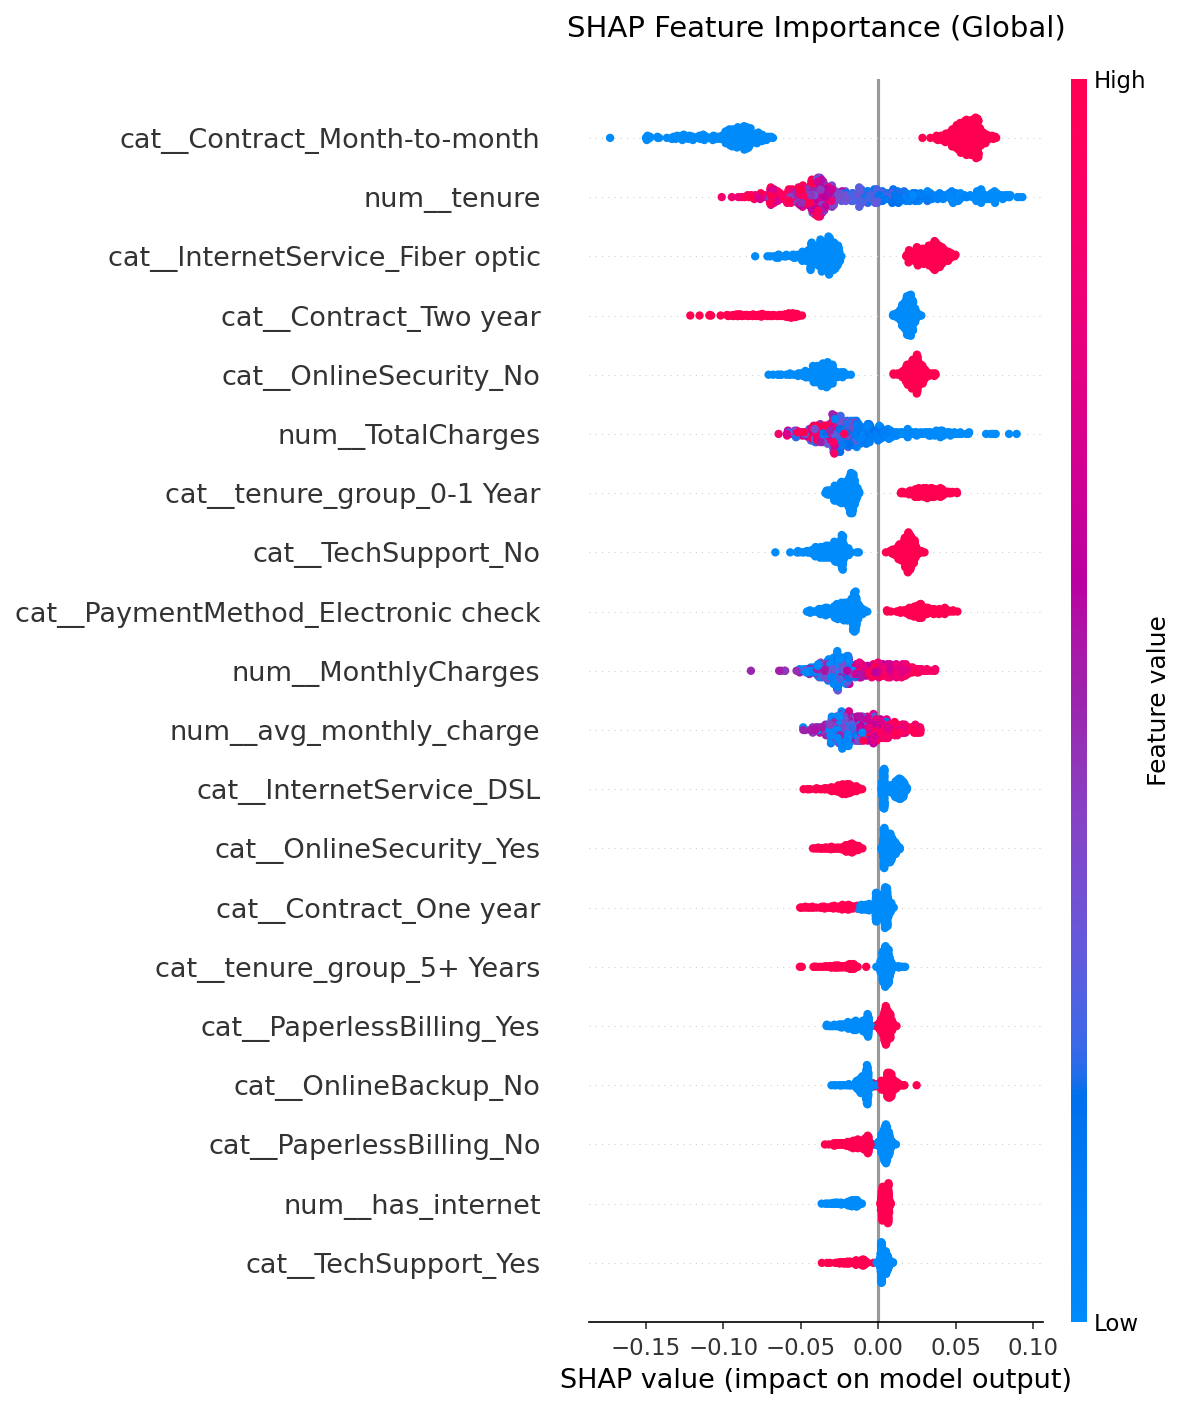
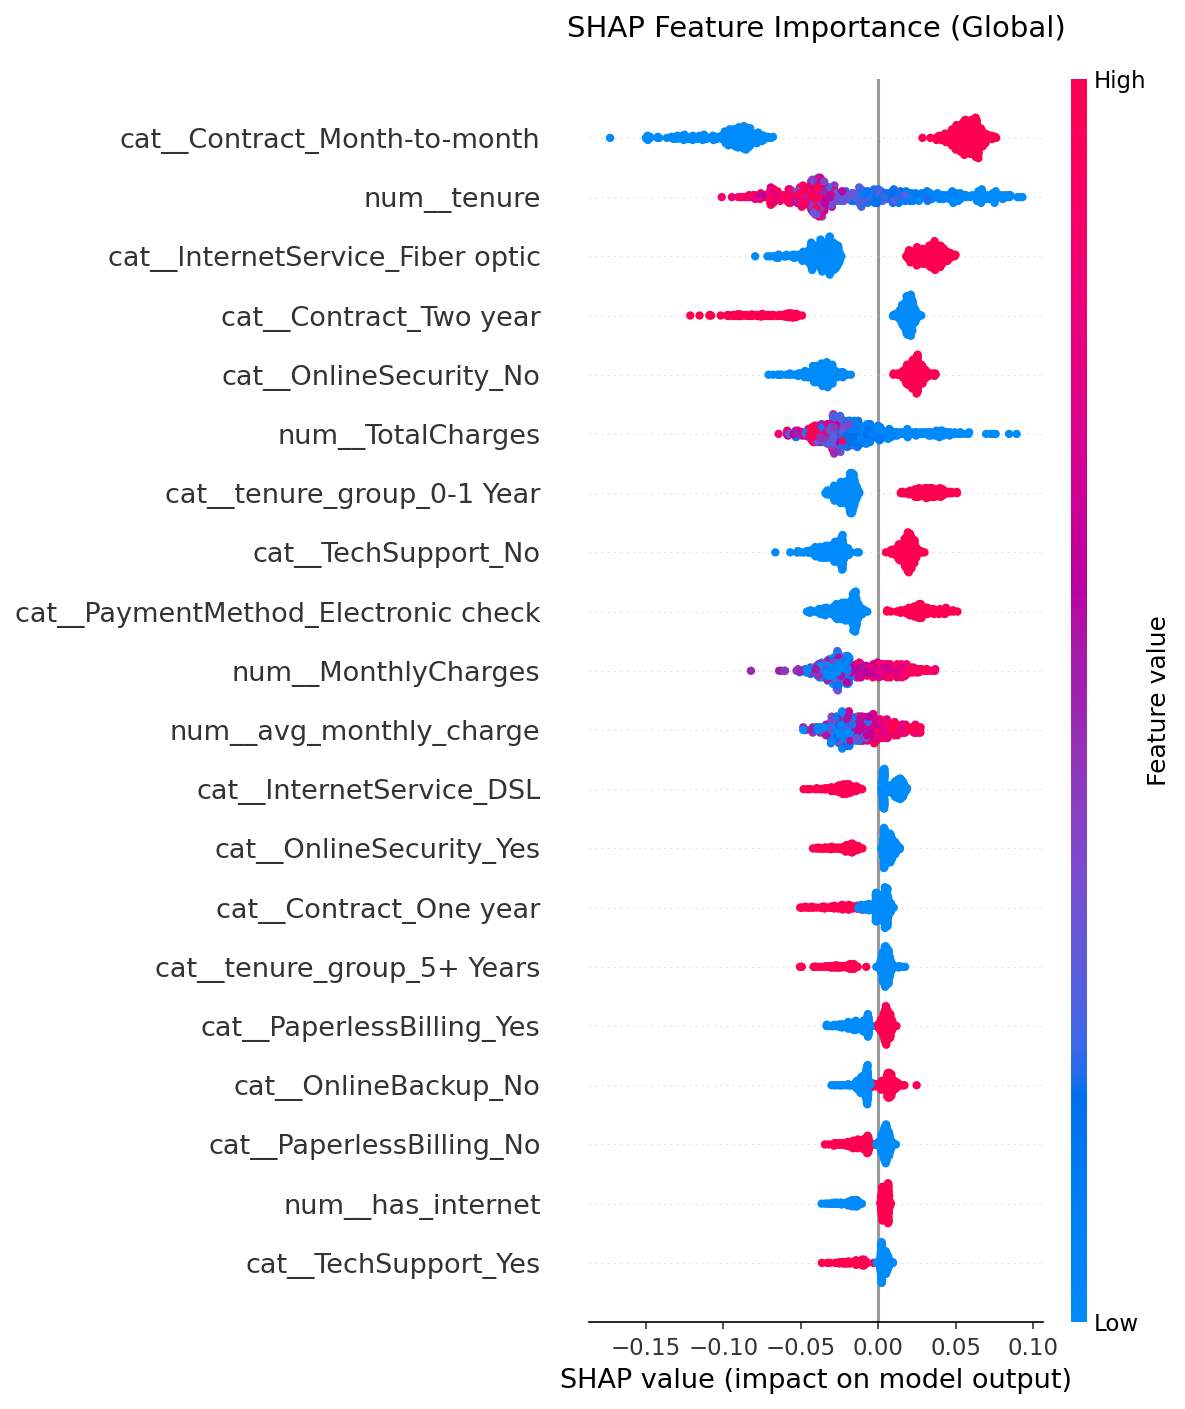
fix: resolve path resolutions, Pydantic v2 compatibility, and document execution instructions

Changed region(s): [[0.6869, 0.4372, 0.7806, 0.5309], [0.6245, 0.1249, 0.7806, 0.1561], [0.6557, 0.2811, 0.7181, 0.3435]]

diff --git a/backend/src/api.py b/backend/src/api.py
@@ -18,19 +18,9 @@ import sys
 from pathlib import Path
 from typing import List, Optional, Dict, Any
 
-def _find_repo_root() -> Path:
-    p = Path(__file__).resolve()
-    for parent in p.parents:
-        if (parent / "models").exists() and (parent / "data").exists():
-            return parent
-    return Path(__file__).resolve().parent.parent
-
-PROJECT_ROOT = _find_repo_root()
-BACKEND_DIR = Path(__file__).resolve().parent.parent
-
-for p in [str(PROJECT_ROOT), str(BACKEND_DIR)]:
-    if p not in sys.path:
-        sys.path.insert(0, p)
+from src.paths import REPO_ROOT as PROJECT_ROOT, REPORTS_DIR, MODELS_DIR
+if str(PROJECT_ROOT) not in sys.path:
+    sys.path.insert(0, str(PROJECT_ROOT))
 
 import pandas as pd
 import numpy as np
@@ -243,7 +233,7 @@ def predict_single_customer(customer: CustomerInput):
         raise HTTPException(status_code=503, detail="ML model is not loaded.")
 
     # Create raw row
-    data_dict = customer.dict()
+    data_dict = customer.model_dump() if hasattr(customer, "model_dump") else customer.dict()
     if data_dict["TotalCharges"] is None:
         data_dict["TotalCharges"] = round(data_dict["MonthlyCharges"] * max(1, data_dict["tenure"]), 2)
 

diff --git a/backend/run_pipeline.py b/backend/run_pipeline.py
@@ -41,19 +41,9 @@ warnings.filterwarnings("ignore")
 
 from pathlib import Path
 
-def _find_repo_root() -> Path:
-    p = Path(__file__).resolve()
-    for parent in [p.parent, p.parent.parent]:
-        if (parent / "data").exists() and (parent / "models").exists():
-            return parent
-    return p.parent
-
-PROJECT_ROOT = _find_repo_root()
-BACKEND_DIR = Path(__file__).resolve().parent
-
-for p in [str(PROJECT_ROOT), str(BACKEND_DIR)]:
-    if p not in sys.path:
-        sys.path.insert(0, p)
+# Add project root to path
+PROJECT_ROOT = Path(__file__).resolve().parent
+sys.path.insert(0, str(PROJECT_ROOT))
 
 from src.data_preprocessing import (
     load_raw_data,
@@ -241,8 +231,8 @@ def main():
     print("PHASE 9: GENERATING CUSTOMER PREDICTIONS REPORT")
     print("=" * 60)
 
-    # Use the raw data file for predictions (simulating new data input)
-    raw_csv = list((PROJECT_ROOT / "data" / "raw").glob("*.csv"))
+    from src.paths import RAW_DATA_DIR
+    raw_csv = list(RAW_DATA_DIR.glob("*.csv"))
     if raw_csv:
         predict_churn(raw_csv[0], threshold=optimal_threshold)
     else:

diff --git a/backend/src/predict.py b/backend/src/predict.py
@@ -12,19 +12,10 @@ import pandas as pd
 import numpy as np
 from pathlib import Path
 
-def _find_repo_root() -> Path:
-    p = Path(__file__).resolve()
-    for parent in p.parents:
-        if (parent / "models").exists() and (parent / "data").exists():
-            return parent
-    return Path(__file__).resolve().parent.parent
-
-PROJECT_ROOT = _find_repo_root()
-BACKEND_DIR = Path(__file__).resolve().parent.parent
-
-for p in [str(PROJECT_ROOT), str(BACKEND_DIR)]:
-    if p not in sys.path:
-        sys.path.insert(0, p)
+# Add project root to sys.path for direct execution
+PROJECT_ROOT = Path(__file__).resolve().parent.parent
+if str(PROJECT_ROOT) not in sys.path:
+    sys.path.insert(0, str(PROJECT_ROOT))
 
 from src.data_preprocessing import ID_COL, TARGET_COL, EXCLUDE_COLS, clean_data
 from src.feature_engineering import engineer_features

diff --git a/src/api.py b/src/api.py
@@ -18,7 +18,7 @@ import sys
 from pathlib import Path
 from typing import List, Optional, Dict, Any
 
-PROJECT_ROOT = Path(__file__).resolve().parent.parent
+from src.paths import REPO_ROOT as PROJECT_ROOT, REPORTS_DIR, MODELS_DIR
 if str(PROJECT_ROOT) not in sys.path:
     sys.path.insert(0, str(PROJECT_ROOT))
 
@@ -233,7 +233,7 @@ def predict_single_customer(customer: CustomerInput):
         raise HTTPException(status_code=503, detail="ML model is not loaded.")
 
     # Create raw row
-    data_dict = customer.dict()
+    data_dict = customer.model_dump() if hasattr(customer, "model_dump") else customer.dict()
     if data_dict["TotalCharges"] is None:
         data_dict["TotalCharges"] = round(data_dict["MonthlyCharges"] * max(1, data_dict["tenure"]), 2)
 

diff --git a/backend/src/train.py b/backend/src/train.py
@@ -23,16 +23,10 @@ from src.data_preprocessing import build_preprocessor, identify_column_types
 
 # ---------------------------------------------------------------------------
 # Constants
-def _find_repo_root() -> Path:
-    p = Path(__file__).resolve()
-    for parent in p.parents:
-        if (parent / "models").exists() and (parent / "data").exists():
-            return parent
-    return Path(__file__).resolve().parent.parent
+# ---------------------------------------------------------------------------
 
-_ROOT = _find_repo_root()
-MODELS_DIR = _ROOT / "models"
-REPORTS_DIR = _ROOT / "reports"
+from src.paths import MODELS_DIR, REPORTS_DIR
+
 RANDOM_STATE = 42
 CV_FOLDS = 5
 SCORING = ["precision", "recall", "f1", "roc_auc"]

diff --git a/backend/src/paths.py b/backend/src/paths.py
@@ -1,0 +1,25 @@
+"""
+paths.py
+--------
+Centralized repository and artifact path resolution.
+Ensures correct paths whether running from repo root or backend/ directory.
+"""
+
+from pathlib import Path
+
+
+def get_repo_root() -> Path:
+    p = Path(__file__).resolve()
+    for parent in [p.parent, p.parent.parent, p.parent.parent.parent]:
+        if (parent / "models").exists() and (parent / "data").exists():
+            return parent
+    return p.parent.parent
+
+
+REPO_ROOT = get_repo_root()
+MODELS_DIR = REPO_ROOT / "models"
+REPORTS_DIR = REPO_ROOT / "reports"
+FIGURES_DIR = REPORTS_DIR / "figures"
+DATA_DIR = REPO_ROOT / "data"
+RAW_DATA_DIR = DATA_DIR / "raw"
+PROCESSED_DATA_DIR = DATA_DIR / "processed"

diff --git a/src/paths.py b/src/paths.py
@@ -1,0 +1,25 @@
+"""
+paths.py
+--------
+Centralized repository and artifact path resolution.
+Ensures correct paths whether running from repo root or backend/ directory.
+"""
+
+from pathlib import Path
+
+
+def get_repo_root() -> Path:
+    p = Path(__file__).resolve()
+    for parent in [p.parent, p.parent.parent, p.parent.parent.parent]:
+        if (parent / "models").exists() and (parent / "data").exists():
+            return parent
+    return p.parent.parent
+
+
+REPO_ROOT = get_repo_root()
+MODELS_DIR = REPO_ROOT / "models"
+REPORTS_DIR = REPO_ROOT / "reports"
+FIGURES_DIR = REPORTS_DIR / "figures"
+DATA_DIR = REPO_ROOT / "data"
+RAW_DATA_DIR = DATA_DIR / "raw"
+PROCESSED_DATA_DIR = DATA_DIR / "processed"

diff --git a/backend/src/data_preprocessing.py b/backend/src/data_preprocessing.py
@@ -22,16 +22,9 @@ from sklearn.impute import SimpleImputer
 
 # ---------------------------------------------------------------------------
 # Constants
-def _find_repo_root() -> Path:
-    p = Path(__file__).resolve()
-    for parent in p.parents:
-        if (parent / "models").exists() and (parent / "data").exists():
-            return parent
-    return Path(__file__).resolve().parent.parent
+# ---------------------------------------------------------------------------
 
-_ROOT = _find_repo_root()
-RAW_DATA_DIR = _ROOT / "data" / "raw"
-PROCESSED_DATA_DIR = _ROOT / "data" / "processed"
+from src.paths import RAW_DATA_DIR, PROCESSED_DATA_DIR
 
 TARGET_COL = "Churn"
 ID_COL = "customerID"

diff --git a/backend/src/evaluate.py b/backend/src/evaluate.py
@@ -27,15 +27,9 @@ from sklearn.metrics import (
 
 # ---------------------------------------------------------------------------
 # Constants
-def _find_repo_root() -> Path:
-    p = Path(__file__).resolve()
-    for parent in p.parents:
-        if (parent / "models").exists() and (parent / "data").exists():
-            return parent
-    return Path(__file__).resolve().parent.parent
+# ---------------------------------------------------------------------------
 
-REPORTS_DIR = _find_repo_root() / "reports"
-FIGURES_DIR = REPORTS_DIR / "figures"
+from src.paths import REPORTS_DIR, FIGURES_DIR
 
 
 # ---------------------------------------------------------------------------

diff --git a/backend/src/explain.py b/backend/src/explain.py
@@ -19,14 +19,9 @@ from sklearn.pipeline import Pipeline
 
 # ---------------------------------------------------------------------------
 # Constants
-def _find_repo_root() -> Path:
-    p = Path(__file__).resolve()
-    for parent in p.parents:
-        if (parent / "models").exists() and (parent / "data").exists():
-            return parent
-    return Path(__file__).resolve().parent.parent
+# ---------------------------------------------------------------------------
 
-FIGURES_DIR = _find_repo_root() / "reports" / "figures"
+from src.paths import FIGURES_DIR
 
 
 # ---------------------------------------------------------------------------

diff --git a/src/train.py b/src/train.py
@@ -25,8 +25,8 @@ from src.data_preprocessing import build_preprocessor, identify_column_types
 # Constants
 # ---------------------------------------------------------------------------
 
-MODELS_DIR = Path(__file__).resolve().parent.parent / "models"
-REPORTS_DIR = Path(__file__).resolve().parent.parent / "reports"
+from src.paths import MODELS_DIR, REPORTS_DIR
+
 RANDOM_STATE = 42
 CV_FOLDS = 5
 SCORING = ["precision", "recall", "f1", "roc_auc"]

diff --git a/run_pipeline.py b/run_pipeline.py
@@ -231,8 +231,8 @@ def main():
     print("PHASE 9: GENERATING CUSTOMER PREDICTIONS REPORT")
     print("=" * 60)
 
-    # Use the raw data file for predictions (simulating new data input)
-    raw_csv = list((PROJECT_ROOT / "data" / "raw").glob("*.csv"))
+    from src.paths import RAW_DATA_DIR
+    raw_csv = list(RAW_DATA_DIR.glob("*.csv"))
     if raw_csv:
         predict_churn(raw_csv[0], threshold=optimal_threshold)
     else:
